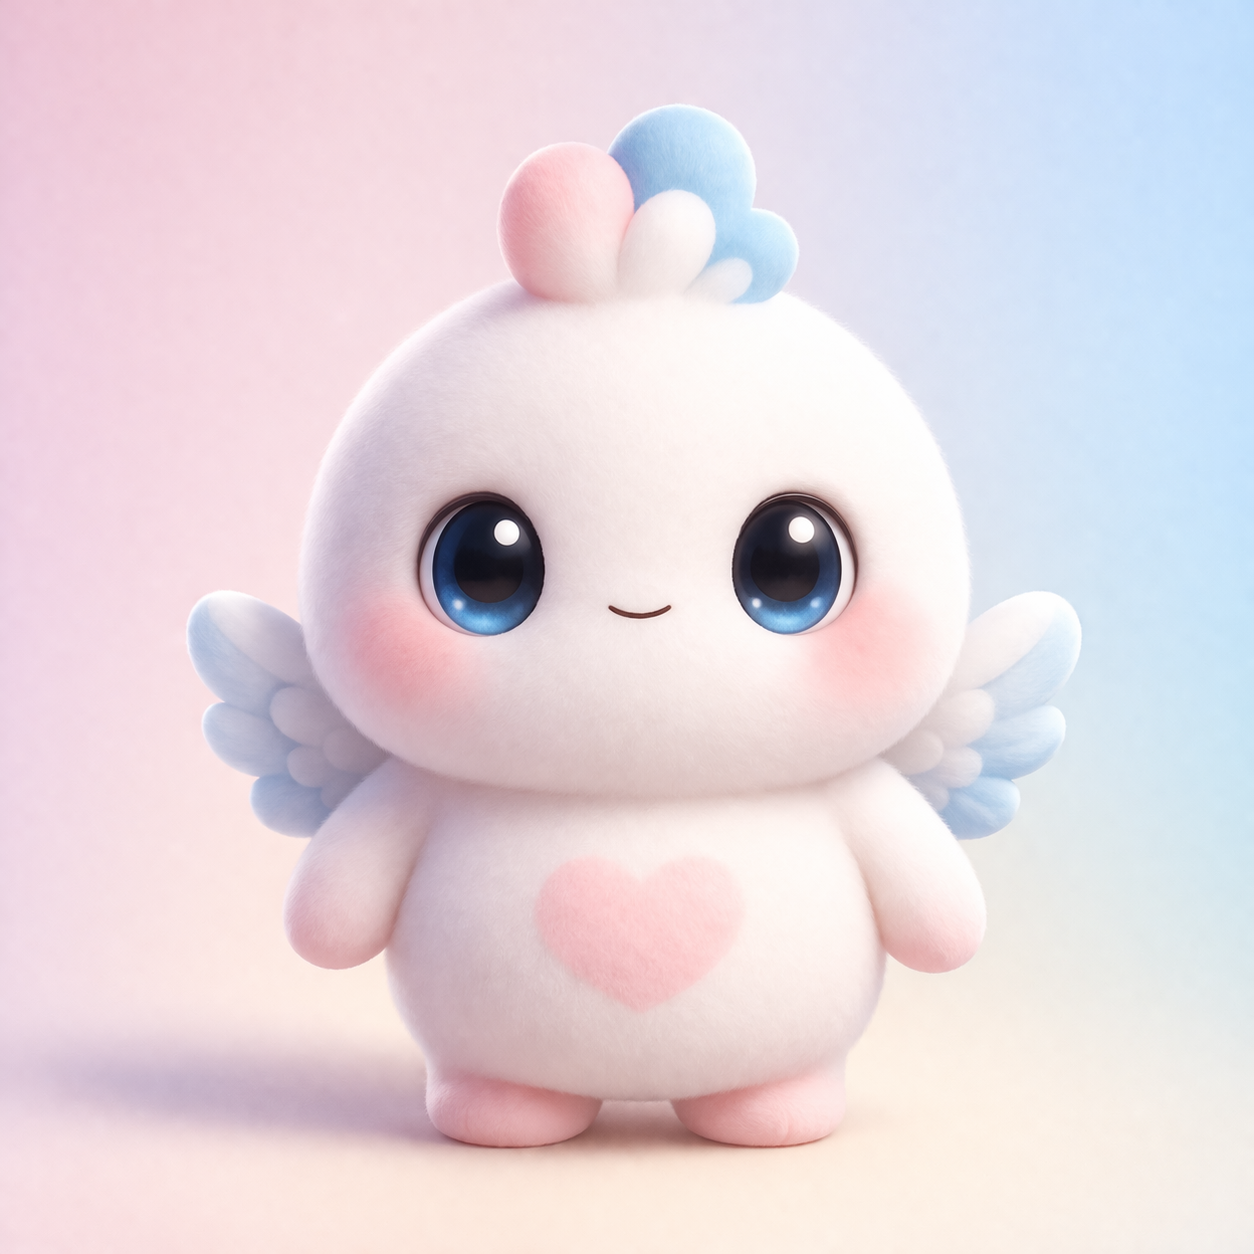
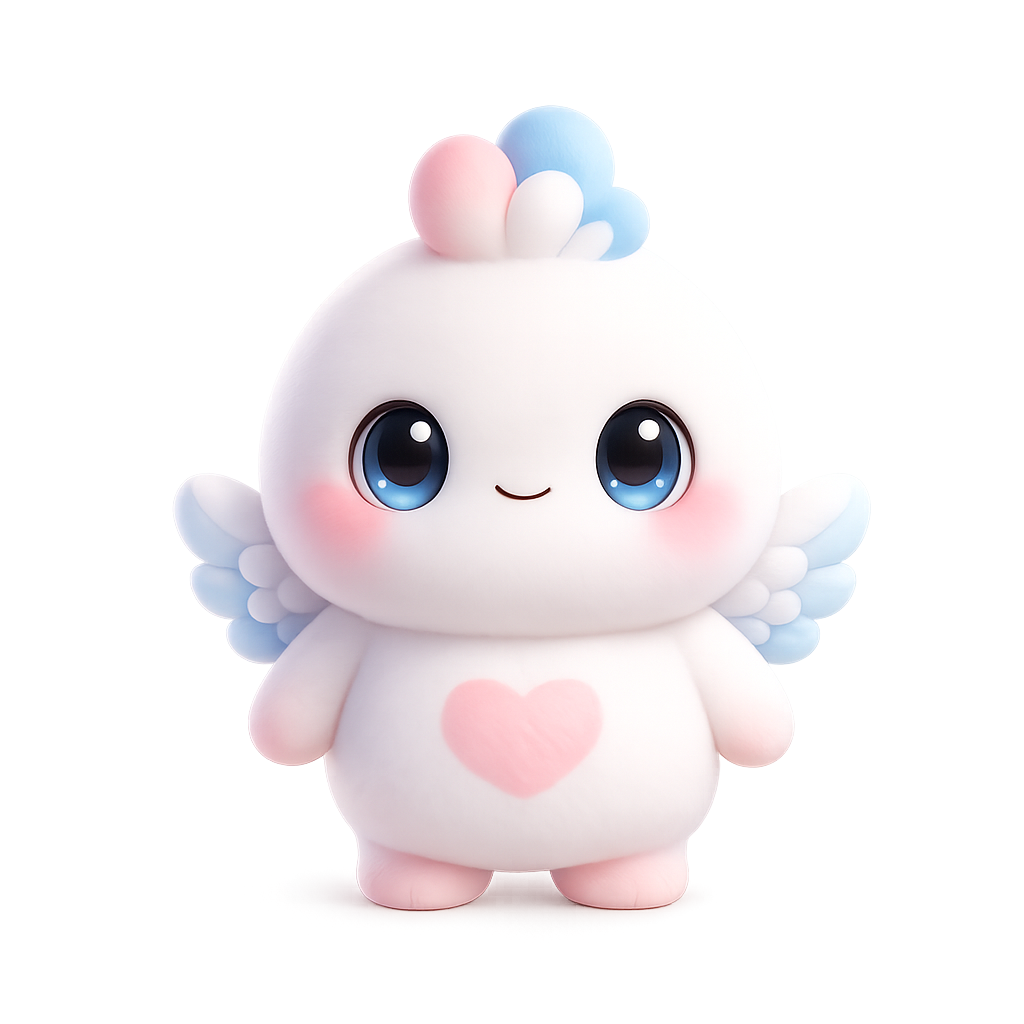
fix: mockTrends category 필드 누락 수정, 배경제거 Wingy 이미지 교체
- mockTrends.ts 각 항목에 category 필드 추가 (빌드 오류 원인)
- wingy.png, wingy-3d.png → 배경제거 버전으로 교체

diff --git a/src/data/mockTrends.ts b/src/data/mockTrends.ts
@@ -9,6 +9,7 @@ export const mockTrends: Trend[] = [
     image_url: 'https://images.unsplash.com/photo-1579621970563-ebec7560ff3e?w=600&q=80',
     ai_comment: '요즘 피드에서 엄청 보이던데? 이거 진짜 유행 맞아? 🤔',
     created_at: '2026-04-01',
+    category: 'challenge',
     votes: { yes: 142, no: 38, maybe: 61 },
   },
   {
@@ -19,6 +20,7 @@ export const mockTrends: Trend[] = [
     image_url: 'https://images.unsplash.com/photo-1554118811-1e0d58224f24?w=600&q=80',
     ai_comment: '나는 카페 가면 커피 마시는데... 이제 자러 가는 거야?? 😴',
     created_at: '2026-04-01',
+    category: 'cafe',
     votes: { yes: 89, no: 54, maybe: 97 },
   },
   {
@@ -29,6 +31,7 @@ export const mockTrends: Trend[] = [
     image_url: 'https://images.unsplash.com/photo-1501854140801-50d01698950b?w=600&q=80',
     ai_comment: '폰 없이 여행 간 걸 폰으로 올린다고?! 이게 맞아?! 🤯',
     created_at: '2026-04-01',
+    category: 'travel',
     votes: { yes: 201, no: 112, maybe: 44 },
   },
 ];
